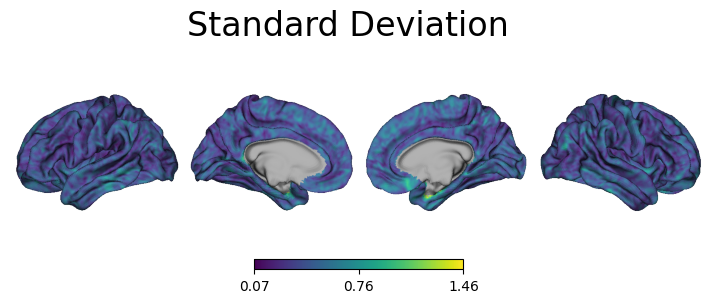
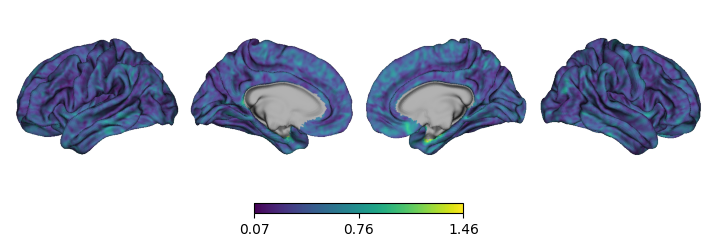
Update figures.

diff --git a/analysis/plot_fmriprep_anats.py b/analysis/plot_fmriprep_anats.py
@@ -77,7 +77,7 @@ def plot_surface(name, measure, files):
         cmap="viridis",
     )
     fig = p.build()
-    fig.suptitle(measure, fontsize=24)
+    # fig.suptitle(measure, fontsize=24)
     fig.savefig(
         f"../figures/{name.replace(' ', '')}_{measure.lower().replace(' ', '')}.png",
         bbox_inches="tight",
